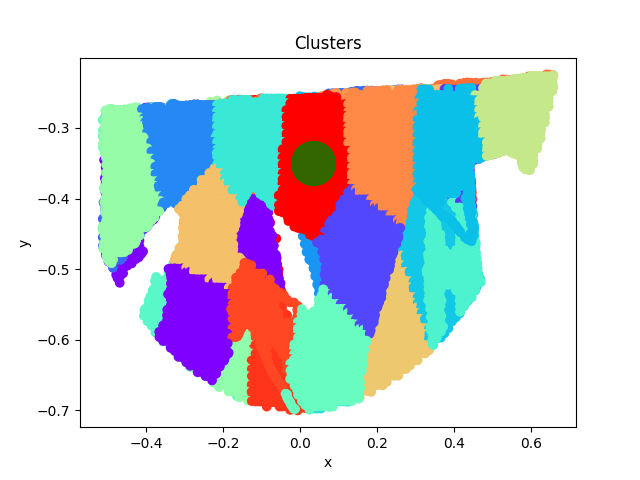
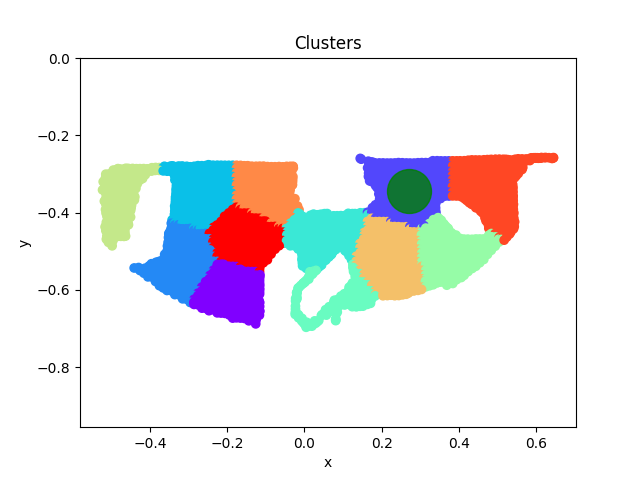
Upgraded pick and place params

diff --git a/catkin_home/src/manipulation/pick_and_place/scripts/pick_and_place_server.py b/catkin_home/src/manipulation/pick_and_place/scripts/pick_and_place_server.py
@@ -123,6 +123,8 @@ class PickAndPlaceServer(object):
             self.pick_groups[-1].set_goal_position_tolerance(0.01)
 
         self.picked_object_dimensions = [0, 0, 0]
+        self.place_height = 0
+        self.pick_height = 0
 
         rospy.loginfo("Action Server Pick & Place Up!")
 
@@ -269,7 +271,7 @@ class PickAndPlaceServer(object):
                             pose_st.header = grasp.grasp_pose.header
                             pose_st.pose = grasp.grasp_pose.pose
                             self.pose_p.publish(pose_st)
-                            grasp.grasp_pose.pose.position.z += 0.04
+                            grasp.grasp_pose.pose.position.z += 0.045
                             adjust = 0.00
                             if grasp.grasp_pose.pose.position.x > 0.0:
                                 grasp.grasp_pose.pose.position.x -= adjust
@@ -318,7 +320,10 @@ class PickAndPlaceServer(object):
                             else:
                                 grasp.grasp_pose.pose.position.y += adjust
 
-                            grasp.grasp_pose.pose.position.z -= 0.04
+                            grasp.grasp_pose.pose.position.z -= 0.065
+
+                            self.pick_height = grasp.grasp_pose.pose.position.z
+
                             pose_st = PoseStamped()
                             pose_st.header = grasp.grasp_pose.header
                             pose_st.pose = grasp.grasp_pose.pose
@@ -422,6 +427,12 @@ class PickAndPlaceServer(object):
                 height = maxPt.y - minPt.y
                 depth = maxPt.z - minPt.z
                 self.picked_object_dimensions = [width, height, depth]
+
+                # heigh for place
+                self.place_height = depth #option 1
+                self.place_height = self.pick_height #option 2
+
+                rospy.loginfo("Object dimensions: " + str(self.picked_object_dimensions))
                 collision_object = CollisionObject(
                     header = collision_mesh.header,
                     id = "current_box",
@@ -578,7 +589,8 @@ class PickAndPlaceServer(object):
                 pose_st.header = object_pose.header
                 pose_st.pose = object_pose.pose
                 #pose_st.pose.position.z += self.picked_object_dimensions[2] + 0.07
-                pose_st.pose.position.z += self.picked_object_dimensions[2] + 0.15
+                rospy.loginfo("Planning with object added height: " + str(self.place_height))
+                pose_st.pose.position.z += self.picked_object_dimensions[2] + 0.04
                 #pose_st.pose.position.y -= 0.05
                 #face down
                 pose_st.pose.orientation = Quaternion(x=0.000001, y=0.707000, z=0.000001, w=0.707000)

diff --git a/catkin_home/src/manipulation/pick_and_place/scripts/manipulationServer.py b/catkin_home/src/manipulation/pick_and_place/scripts/manipulationServer.py
@@ -194,6 +194,11 @@ class manipuationServer(object):
             self._as.set_succeeded(manipulationServResult(result = False))
             return
         
+        # Check if arm is in PREGRASP position, if not, move to it
+        if ARM_ENABLE:
+            current_joints = self.arm_group.get_current_joint_values()
+            if current_joints != self.ARM_PREGRASP:
+                self.moveARM(self.ARM_PREGRASP, 0.25)
 
         # Get Objects:
         rospy.loginfo("Getting objects/position")

diff --git a/catkin_home/src/manipulation/object_detector/src/Detection3D.cpp b/catkin_home/src/manipulation/object_detector/src/Detection3D.cpp
@@ -957,7 +957,7 @@ public:
     //Set parameters for the clustering
     std::vector<pcl::PointIndices> cluster_indices;
     pcl::EuclideanClusterExtraction<pcl::PointXYZ> ec;
-    ec.setClusterTolerance(0.03); // 3cm
+    ec.setClusterTolerance(0.01); // 3cm
     ec.setMinClusterSize(25);
     ec.setMaxClusterSize(20000);
     ec.setSearchMethod(tree);

diff --git a/catkin_home/src/manipulation/object_detector/src/Clustering_Server.py b/catkin_home/src/manipulation/object_detector/src/Clustering_Server.py
@@ -12,7 +12,7 @@ import cv2
 
 
 ARGS= {
-    "CLUSTERS_PER_OBJECT": 4,
+    "CLUSTERS_PER_OBJECT": 3,
     "SAVE_IMAGE": True
 }
 
